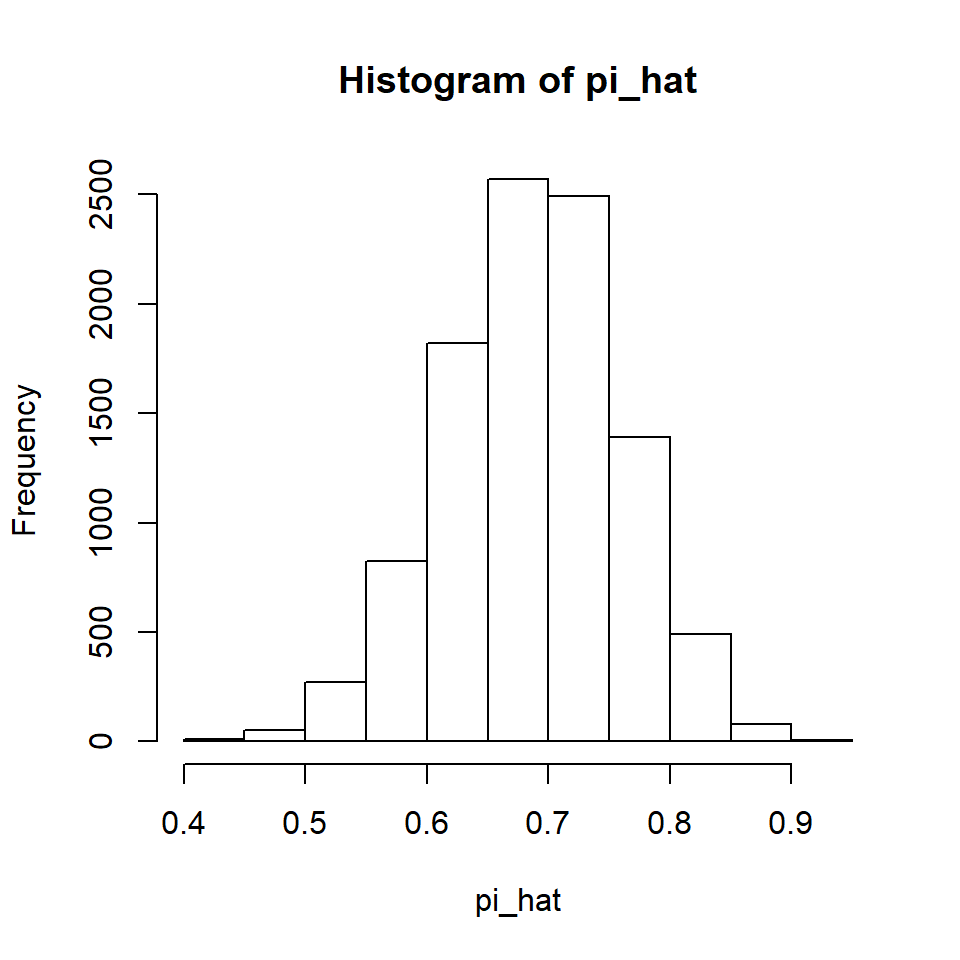
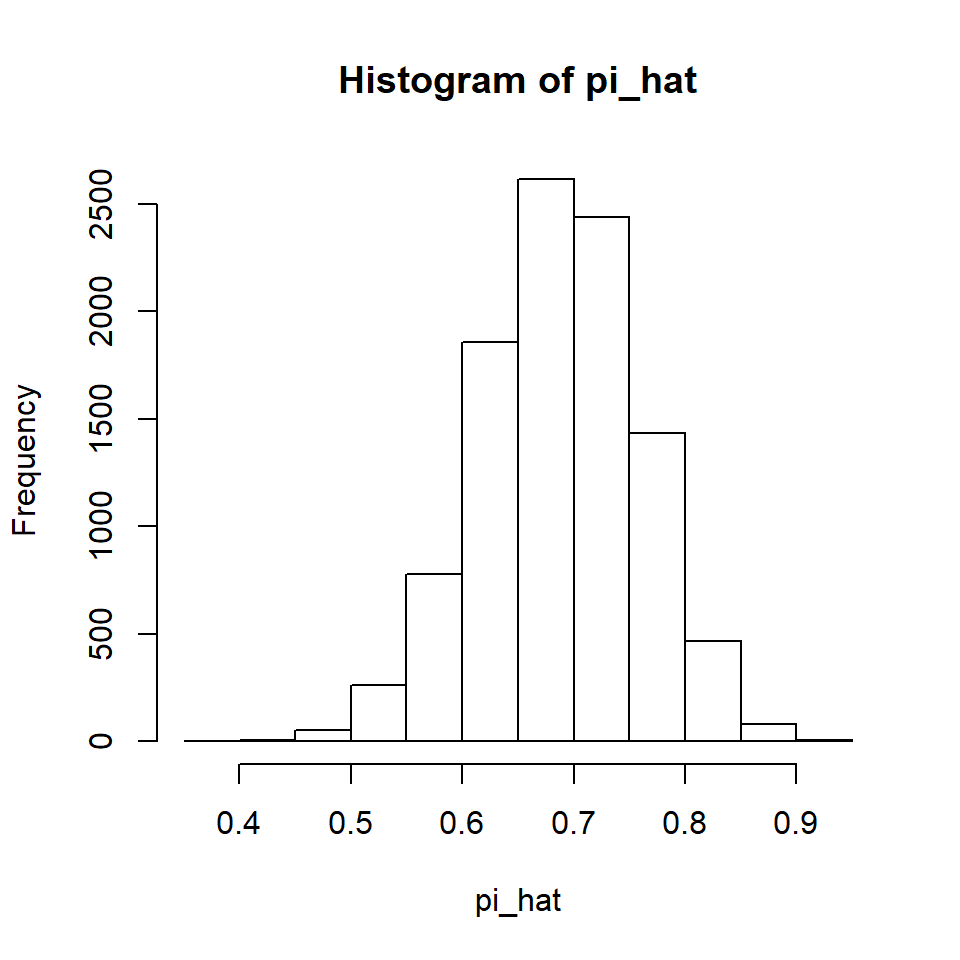
Build site for version 9011

diff --git a/docs/articles/ReplaceScores.html b/docs/articles/ReplaceScores.html
@@ -30,7 +30,7 @@
       </button>
       <span class="navbar-brand">
         <a class="navbar-link" href="../index.html">nplearn</a>
-        <span class="version label label-danger" data-toggle="tooltip" data-placement="bottom" title="Unreleased version">0.0.0.9010</span>
+        <span class="version label label-danger" data-toggle="tooltip" data-placement="bottom" title="Unreleased version">0.0.0.9011</span>
       </span>
     </div>
 
@@ -345,7 +345,7 @@
 <span id="cb13-17"><a href="#cb13-17"></a><span class="co">#&gt;  Wilcoxon signed rank test</span></span>
 <span id="cb13-18"><a href="#cb13-18"></a><span class="co">#&gt; </span></span>
 <span id="cb13-19"><a href="#cb13-19"></a><span class="co">#&gt; data:  large.A and large.B</span></span>
-<span id="cb13-20"><a href="#cb13-20"></a><span class="co">#&gt; V = 806, p-value = 0.2136</span></span>
+<span id="cb13-20"><a href="#cb13-20"></a><span class="co">#&gt; V = 690, p-value = 0.04931</span></span>
 <span id="cb13-21"><a href="#cb13-21"></a><span class="co">#&gt; alternative hypothesis: true location shift is less than 0</span></span></code></pre></div>
 <p>Wow! It did it, and fast! Let’s see how this compares to if we had just let the function do the large-sample approximation.</p>
 <div class="sourceCode" id="cb14"><pre class="sourceCode r"><code class="sourceCode r"><span id="cb14-1"><a href="#cb14-1"></a><span class="kw"><a href="https://www.rdocumentation.org/packages/stats/topics/wilcox.test">wilcox.test</a></span>(large.A, large.B, <span class="dt">paired =</span> <span class="ot">TRUE</span>, <span class="dt">alternative =</span> <span class="st">"less"</span>)</span>
@@ -353,7 +353,7 @@
 <span id="cb14-3"><a href="#cb14-3"></a><span class="co">#&gt;  Wilcoxon signed rank test with continuity correction</span></span>
 <span id="cb14-4"><a href="#cb14-4"></a><span class="co">#&gt; </span></span>
 <span id="cb14-5"><a href="#cb14-5"></a><span class="co">#&gt; data:  large.A and large.B</span></span>
-<span id="cb14-6"><a href="#cb14-6"></a><span class="co">#&gt; V = 806, p-value = 0.2122</span></span>
+<span id="cb14-6"><a href="#cb14-6"></a><span class="co">#&gt; V = 690, p-value = 0.0492</span></span>
 <span id="cb14-7"><a href="#cb14-7"></a><span class="co">#&gt; alternative hypothesis: true location shift is less than 0</span></span></code></pre></div>
 <p>This is quite good, which is why the function switches to the large-sample approximation at 50. We know that the Fisher-Pitman permutation test with original scores would take way too long for us to do in our lifetime. (Maybe grandchildren could get our results off the printer and help establish our lebacy!) Yet we also know that the <em>t</em> test is a large-sample approxiamation for the Fisher-Pitman permutation test, so let’s see how those results compare.</p>
 <div class="sourceCode" id="cb15"><pre class="sourceCode r"><code class="sourceCode r"><span id="cb15-1"><a href="#cb15-1"></a><span class="kw"><a href="https://www.rdocumentation.org/packages/stats/topics/t.test">t.test</a></span>(large.A, large.B, <span class="dt">paired =</span> <span class="ot">TRUE</span>, <span class="dt">alternative =</span> <span class="st">"less"</span>)</span>
@@ -361,13 +361,13 @@
 <span id="cb15-3"><a href="#cb15-3"></a><span class="co">#&gt;  Paired t-test</span></span>
 <span id="cb15-4"><a href="#cb15-4"></a><span class="co">#&gt; </span></span>
 <span id="cb15-5"><a href="#cb15-5"></a><span class="co">#&gt; data:  large.A and large.B</span></span>
-<span id="cb15-6"><a href="#cb15-6"></a><span class="co">#&gt; t = -0.63366, df = 59, p-value = 0.2644</span></span>
+<span id="cb15-6"><a href="#cb15-6"></a><span class="co">#&gt; t = -1.6311, df = 59, p-value = 0.0541</span></span>
 <span id="cb15-7"><a href="#cb15-7"></a><span class="co">#&gt; alternative hypothesis: true difference in means is less than 0</span></span>
 <span id="cb15-8"><a href="#cb15-8"></a><span class="co">#&gt; 95 percent confidence interval:</span></span>
-<span id="cb15-9"><a href="#cb15-9"></a><span class="co">#&gt;      -Inf 1.880778</span></span>
+<span id="cb15-9"><a href="#cb15-9"></a><span class="co">#&gt;        -Inf 0.06446532</span></span>
 <span id="cb15-10"><a href="#cb15-10"></a><span class="co">#&gt; sample estimates:</span></span>
 <span id="cb15-11"><a href="#cb15-11"></a><span class="co">#&gt; mean of the differences </span></span>
-<span id="cb15-12"><a href="#cb15-12"></a><span class="co">#&gt;               -1.148761</span></span></code></pre></div>
+<span id="cb15-12"><a href="#cb15-12"></a><span class="co">#&gt;               -2.627069</span></span></code></pre></div>
 <p>Remember that we simulated this study using random numbers, so your results will be different than mine, and my results will be different every time I go through this vignette. What we do know is that <em>most of the time</em> we should obtain a smaller <em>p</em> value with the <em>t</em> test. Why? Because we have exactly met the conditions for valid inference with the <em>t</em> test by simulating our data using a normal distribution. I will venture, however, that most of the time when you try this with normally distributed data that your results will not differ too drastically from what you are obtaining with the Wilcoxon test. This is surprising given that the <em>t</em> test is valid, and most powerful, when the sample comes from a normal distribution. We will discuss this further when we compare the power of competing methods.</p>
 </div>
 <div id="conditions-for-valid-inference" class="section level3">
@@ -493,11 +493,11 @@
 <span id="cb24-11"><a href="#cb24-11"></a><span class="co"># Let's see if we have any ties.</span></span>
 <span id="cb24-12"><a href="#cb24-12"></a></span>
 <span id="cb24-13"><a href="#cb24-13"></a><span class="kw"><a href="https://www.rdocumentation.org/packages/base/topics/rank">rank</a></span>(<span class="kw"><a href="https://www.rdocumentation.org/packages/base/topics/MathFun">abs</a></span>(large.B <span class="op">-</span><span class="st"> </span>large.A))</span>
-<span id="cb24-14"><a href="#cb24-14"></a><span class="co">#&gt;  [1] 35.5 38.0  3.5 55.5 30.0 53.0  3.5 49.5 43.0 43.0 49.5 11.5  8.5 38.0</span></span>
-<span id="cb24-15"><a href="#cb24-15"></a><span class="co">#&gt; [15] 54.0 11.5 28.0 31.0 40.5 45.5 45.5 20.0  8.5 51.5 24.5 14.0 40.5 22.0</span></span>
-<span id="cb24-16"><a href="#cb24-16"></a><span class="co">#&gt; [29] 47.5 51.5  8.5 33.0 17.0 20.0 47.5 55.5 28.0 14.0 17.0  3.5 28.0 59.0</span></span>
-<span id="cb24-17"><a href="#cb24-17"></a><span class="co">#&gt; [43] 24.5  3.5 14.0 35.5 57.0  8.5 59.0 38.0 24.5 17.0  3.5 33.0 59.0 43.0</span></span>
-<span id="cb24-18"><a href="#cb24-18"></a><span class="co">#&gt; [57] 20.0 33.0 24.5  3.5</span></span></code></pre></div>
+<span id="cb24-14"><a href="#cb24-14"></a><span class="co">#&gt;  [1] 56.0  2.5 40.0 40.0 53.0 30.0 37.0 15.0 51.5 26.0 26.0 43.5 54.0 30.0</span></span>
+<span id="cb24-15"><a href="#cb24-15"></a><span class="co">#&gt; [15]  8.0 19.5 40.0 40.0 34.0 49.0 43.5  5.5 11.5  4.0 55.0 11.5  8.0 46.0</span></span>
+<span id="cb24-16"><a href="#cb24-16"></a><span class="co">#&gt; [29] 11.5 23.0 15.0 26.0 60.0  1.0 34.0 19.5 26.0 11.5  8.0 19.5 46.0 58.0</span></span>
+<span id="cb24-17"><a href="#cb24-17"></a><span class="co">#&gt; [43] 40.0 30.0 34.0 26.0 50.0 46.0 48.0 19.5 51.5  2.5 15.0 34.0 34.0 19.5</span></span>
+<span id="cb24-18"><a href="#cb24-18"></a><span class="co">#&gt; [57]  5.5 19.5 59.0 57.0</span></span></code></pre></div>
 <p>Now let’s see if the function works for us. Remember we did a one-sided test for this example.</p>
 <div class="sourceCode" id="cb25"><pre class="sourceCode r"><code class="sourceCode r"><span id="cb25-1"><a href="#cb25-1"></a><span class="kw">wilcoxsign_test</span>(large.B <span class="op">~</span><span class="st"> </span>large.A,</span>
 <span id="cb25-2"><a href="#cb25-2"></a>                <span class="dt">distribution =</span> <span class="st">"exact"</span>,</span>
@@ -507,7 +507,7 @@
 <span id="cb25-6"><a href="#cb25-6"></a><span class="co">#&gt; </span></span>
 <span id="cb25-7"><a href="#cb25-7"></a><span class="co">#&gt; data:  y by x (pos, neg) </span></span>
 <span id="cb25-8"><a href="#cb25-8"></a><span class="co">#&gt;   stratified by block</span></span>
-<span id="cb25-9"><a href="#cb25-9"></a><span class="co">#&gt; Z = 0.91681, p-value = 0.1814</span></span>
+<span id="cb25-9"><a href="#cb25-9"></a><span class="co">#&gt; Z = 2.0474, p-value = 0.02009</span></span>
 <span id="cb25-10"><a href="#cb25-10"></a><span class="co">#&gt; alternative hypothesis: true mu is greater than 0</span></span></code></pre></div>
 <p>Let’s see how this <em>p</em> value compares to that of the <em>t</em> test.</p>
 <div class="sourceCode" id="cb26"><pre class="sourceCode r"><code class="sourceCode r"><span id="cb26-1"><a href="#cb26-1"></a><span class="kw"><a href="https://www.rdocumentation.org/packages/stats/topics/t.test">t.test</a></span>(large.B <span class="op">-</span><span class="st"> </span>large.A, <span class="dt">alternative =</span> <span class="st">"greater"</span>)</span>
@@ -515,13 +515,13 @@
 <span id="cb26-3"><a href="#cb26-3"></a><span class="co">#&gt;  One Sample t-test</span></span>
 <span id="cb26-4"><a href="#cb26-4"></a><span class="co">#&gt; </span></span>
 <span id="cb26-5"><a href="#cb26-5"></a><span class="co">#&gt; data:  large.B - large.A</span></span>
-<span id="cb26-6"><a href="#cb26-6"></a><span class="co">#&gt; t = 0.8971, df = 59, p-value = 0.1867</span></span>
+<span id="cb26-6"><a href="#cb26-6"></a><span class="co">#&gt; t = 1.7963, df = 59, p-value = 0.03878</span></span>
 <span id="cb26-7"><a href="#cb26-7"></a><span class="co">#&gt; alternative hypothesis: true mean is greater than 0</span></span>
 <span id="cb26-8"><a href="#cb26-8"></a><span class="co">#&gt; 95 percent confidence interval:</span></span>
-<span id="cb26-9"><a href="#cb26-9"></a><span class="co">#&gt;  -1.610509       Inf</span></span>
+<span id="cb26-9"><a href="#cb26-9"></a><span class="co">#&gt;  0.2335718       Inf</span></span>
 <span id="cb26-10"><a href="#cb26-10"></a><span class="co">#&gt; sample estimates:</span></span>
 <span id="cb26-11"><a href="#cb26-11"></a><span class="co">#&gt; mean of x </span></span>
-<span id="cb26-12"><a href="#cb26-12"></a><span class="co">#&gt;  1.866667</span></span></code></pre></div>
+<span id="cb26-12"><a href="#cb26-12"></a><span class="co">#&gt;      3.35</span></span></code></pre></div>
 <p>Pretty close!</p>
 </div>
 <div id="a-confidence-interval-for-the-median" class="section level3">
@@ -721,18 +721,18 @@
 <span id="cb41-4"><a href="#cb41-4"></a></span>
 <span id="cb41-5"><a href="#cb41-5"></a>many.n.scores &lt;-<span class="st"> </span><span class="kw"><a href="../reference/norm_scores.html">norm_scores</a></span>(diff.scores)</span>
 <span id="cb41-6"><a href="#cb41-6"></a>many.n.scores</span>
-<span id="cb41-7"><a href="#cb41-7"></a><span class="co">#&gt;  [1]  0.02054758  0.04110384  0.06167748  0.08227727 -0.10291203</span></span>
-<span id="cb41-8"><a href="#cb41-8"></a><span class="co">#&gt;  [6]  0.12359072  0.14432239  0.16511628  0.18598182 -0.20692866</span></span>
-<span id="cb41-9"><a href="#cb41-9"></a><span class="co">#&gt; [11]  0.22796670  0.24910613  0.27035748 -0.29173166 -0.31323996</span></span>
-<span id="cb41-10"><a href="#cb41-10"></a><span class="co">#&gt; [16] -0.33489417  0.35670658 -0.37869006  0.40085811 -0.42322495</span></span>
-<span id="cb41-11"><a href="#cb41-11"></a><span class="co">#&gt; [21] -0.44580556  0.46861583 -0.49167259  0.51499376 -0.53859848</span></span>
-<span id="cb41-12"><a href="#cb41-12"></a><span class="co">#&gt; [26]  0.56250721  0.58674192 -0.61132626  0.63628579  0.66164818</span></span>
-<span id="cb41-13"><a href="#cb41-13"></a><span class="co">#&gt; [31]  0.68744352 -0.71370464 -0.74046747 -0.76777150  0.79566030</span></span>
-<span id="cb41-14"><a href="#cb41-14"></a><span class="co">#&gt; [36] -0.82418215  0.85339080  0.88334633  0.91411630  0.94577709</span></span>
-<span id="cb41-15"><a href="#cb41-15"></a><span class="co">#&gt; [41] -0.97841553  1.01213103  1.04703818 -1.08327016  1.12098304</span></span>
-<span id="cb41-16"><a href="#cb41-16"></a><span class="co">#&gt; [46]  1.16036154 -1.20162669  1.24504624  1.29094915  1.33974621</span></span>
-<span id="cb41-17"><a href="#cb41-17"></a><span class="co">#&gt; [51] -1.39196028  1.44827204 -1.50959209 -1.57718007 -1.65285363</span></span>
-<span id="cb41-18"><a href="#cb41-18"></a><span class="co">#&gt; [56] -1.73938416  1.84132620  1.96702501  2.13468333  2.40003638</span></span></code></pre></div>
+<span id="cb41-7"><a href="#cb41-7"></a><span class="co">#&gt;  [1] -0.02054758 -0.04110384  0.06167748 -0.08227727  0.10291203</span></span>
+<span id="cb41-8"><a href="#cb41-8"></a><span class="co">#&gt;  [6]  0.12359072 -0.14432239  0.16511628  0.18598182 -0.20692866</span></span>
+<span id="cb41-9"><a href="#cb41-9"></a><span class="co">#&gt; [11] -0.22796670  0.24910613  0.27035748  0.29173166  0.31323996</span></span>
+<span id="cb41-10"><a href="#cb41-10"></a><span class="co">#&gt; [16]  0.33489417  0.35670658  0.37869006 -0.40085811  0.42322495</span></span>
+<span id="cb41-11"><a href="#cb41-11"></a><span class="co">#&gt; [21]  0.44580556 -0.46861583  0.49167259 -0.51499376 -0.53859848</span></span>
+<span id="cb41-12"><a href="#cb41-12"></a><span class="co">#&gt; [26]  0.56250721  0.58674192  0.61132626  0.63628579 -0.66164818</span></span>
+<span id="cb41-13"><a href="#cb41-13"></a><span class="co">#&gt; [31] -0.68744352 -0.71370464 -0.74046747 -0.76777150  0.79566030</span></span>
+<span id="cb41-14"><a href="#cb41-14"></a><span class="co">#&gt; [36]  0.82418215  0.85339080  0.88334633  0.91411630 -0.94577709</span></span>
+<span id="cb41-15"><a href="#cb41-15"></a><span class="co">#&gt; [41]  0.97841553 -1.01213103 -1.04703818  1.08327016  1.12098304</span></span>
+<span id="cb41-16"><a href="#cb41-16"></a><span class="co">#&gt; [46] -1.16036154  1.20162669  1.24504624  1.29094915  1.33974621</span></span>
+<span id="cb41-17"><a href="#cb41-17"></a><span class="co">#&gt; [51]  1.39196028 -1.44827204  1.50959209  1.57718007 -1.65285363</span></span>
+<span id="cb41-18"><a href="#cb41-18"></a><span class="co">#&gt; [56]  1.73938416  1.84132620  1.96702501  2.13468333  2.40003638</span></span></code></pre></div>
 <p>Now we are in the same predicament that we were when we had original scores and wanted to do the Fisher-Pitman test with a large sample. We need to turn to a large-sample approximation.</p>
 <div class="sourceCode" id="cb42"><pre class="sourceCode r"><code class="sourceCode r"><span id="cb42-1"><a href="#cb42-1"></a><span class="co"># Here is our observed value of the test statistic.</span></span>
 <span id="cb42-2"><a href="#cb42-2"></a></span>
@@ -753,7 +753,7 @@
 <span id="cb42-17"><a href="#cb42-17"></a><span class="co"># This is the p value for a one-sided test.</span></span>
 <span id="cb42-18"><a href="#cb42-18"></a></span>
 <span id="cb42-19"><a href="#cb42-19"></a><span class="kw"><a href="https://www.rdocumentation.org/packages/stats/topics/Normal">pnorm</a></span>(z, <span class="dt">lower.tail =</span> <span class="ot">FALSE</span>)</span>
-<span id="cb42-20"><a href="#cb42-20"></a><span class="co">#&gt; [1] 8.497556e-07</span></span></code></pre></div>
+<span id="cb42-20"><a href="#cb42-20"></a><span class="co">#&gt; [1] 1.717379e-07</span></span></code></pre></div>
 <p>Note that the “jumps” are all different sizes, so we can’t incorporate a correction for continuity, though we did take into account the discrete nature of the data.</p>
 <p>Under the null hypothesis, the normal scores are normally distributed. This means that we could use the t.test as a large-sample approximation. The difference is that we are assuming continuous, rather than discrete, data.</p>
 <div class="sourceCode" id="cb43"><pre class="sourceCode r"><code class="sourceCode r"><span id="cb43-1"><a href="#cb43-1"></a><span class="kw"><a href="https://www.rdocumentation.org/packages/stats/topics/t.test">t.test</a></span>(diff.scores, <span class="dt">alternative =</span> <span class="st">"greater"</span>)</span>
@@ -761,26 +761,26 @@
 <span id="cb43-3"><a href="#cb43-3"></a><span class="co">#&gt;  One Sample t-test</span></span>
 <span id="cb43-4"><a href="#cb43-4"></a><span class="co">#&gt; </span></span>
 <span id="cb43-5"><a href="#cb43-5"></a><span class="co">#&gt; data:  diff.scores</span></span>
-<span id="cb43-6"><a href="#cb43-6"></a><span class="co">#&gt; t = 1.3648, df = 59, p-value = 0.08875</span></span>
+<span id="cb43-6"><a href="#cb43-6"></a><span class="co">#&gt; t = 2.8357, df = 59, p-value = 0.003127</span></span>
 <span id="cb43-7"><a href="#cb43-7"></a><span class="co">#&gt; alternative hypothesis: true mean is greater than 0</span></span>
 <span id="cb43-8"><a href="#cb43-8"></a><span class="co">#&gt; 95 percent confidence interval:</span></span>
-<span id="cb43-9"><a href="#cb43-9"></a><span class="co">#&gt;  -0.275463       Inf</span></span>
+<span id="cb43-9"><a href="#cb43-9"></a><span class="co">#&gt;  1.324484      Inf</span></span>
 <span id="cb43-10"><a href="#cb43-10"></a><span class="co">#&gt; sample estimates:</span></span>
 <span id="cb43-11"><a href="#cb43-11"></a><span class="co">#&gt; mean of x </span></span>
-<span id="cb43-12"><a href="#cb43-12"></a><span class="co">#&gt;  1.227375</span></span></code></pre></div>
+<span id="cb43-12"><a href="#cb43-12"></a><span class="co">#&gt;  3.224961</span></span></code></pre></div>
 <p>What if we had done this with normal scores? Given that we have a normal distribution, we should obtain approximately the same result.</p>
 <div class="sourceCode" id="cb44"><pre class="sourceCode r"><code class="sourceCode r"><span id="cb44-1"><a href="#cb44-1"></a><span class="kw"><a href="https://www.rdocumentation.org/packages/stats/topics/t.test">t.test</a></span>(many.n.scores, <span class="dt">alternative =</span> <span class="st">"greater"</span>)</span>
 <span id="cb44-2"><a href="#cb44-2"></a><span class="co">#&gt; </span></span>
 <span id="cb44-3"><a href="#cb44-3"></a><span class="co">#&gt;  One Sample t-test</span></span>
 <span id="cb44-4"><a href="#cb44-4"></a><span class="co">#&gt; </span></span>
 <span id="cb44-5"><a href="#cb44-5"></a><span class="co">#&gt; data:  many.n.scores</span></span>
-<span id="cb44-6"><a href="#cb44-6"></a><span class="co">#&gt; t = 1.4127, df = 59, p-value = 0.0815</span></span>
+<span id="cb44-6"><a href="#cb44-6"></a><span class="co">#&gt; t = 2.8423, df = 59, p-value = 0.003071</span></span>
 <span id="cb44-7"><a href="#cb44-7"></a><span class="co">#&gt; alternative hypothesis: true mean is greater than 0</span></span>
 <span id="cb44-8"><a href="#cb44-8"></a><span class="co">#&gt; 95 percent confidence interval:</span></span>
-<span id="cb44-9"><a href="#cb44-9"></a><span class="co">#&gt;  -0.03209992         Inf</span></span>
+<span id="cb44-9"><a href="#cb44-9"></a><span class="co">#&gt;  0.1387274       Inf</span></span>
 <span id="cb44-10"><a href="#cb44-10"></a><span class="co">#&gt; sample estimates:</span></span>
 <span id="cb44-11"><a href="#cb44-11"></a><span class="co">#&gt; mean of x </span></span>
-<span id="cb44-12"><a href="#cb44-12"></a><span class="co">#&gt; 0.1754718</span></span></code></pre></div>
+<span id="cb44-12"><a href="#cb44-12"></a><span class="co">#&gt; 0.3366635</span></span></code></pre></div>
 <p>I am pleased with these last two results, but using the formula for a large-sample approximation with Z scores gives a result that startles me! I obtained this from a reputable textbook, but now I’m questioning whether it is right. I am going to investigate. In the meantime, I suggest that you use the <em>t</em> test for the large-sample approximation.</p>
 <p>What if the difference scores had <em>not</em> come from a normal distribution? In the next example, I’m going to draw them from a uniform distribution.</p>
 <div class="sourceCode" id="cb45"><pre class="sourceCode r"><code class="sourceCode r"><span id="cb45-1"><a href="#cb45-1"></a><span class="co"># Obtain 60 uniformly distributed difference scores with a raw effect size of 2 and a standardized effect size of 0.25.</span></span>
@@ -797,26 +797,26 @@
 <span id="cb46-3"><a href="#cb46-3"></a><span class="co">#&gt;  One Sample t-test</span></span>
 <span id="cb46-4"><a href="#cb46-4"></a><span class="co">#&gt; </span></span>
 <span id="cb46-5"><a href="#cb46-5"></a><span class="co">#&gt; data:  diff.scores</span></span>
-<span id="cb46-6"><a href="#cb46-6"></a><span class="co">#&gt; t = 1.5575, df = 59, p-value = 0.1247</span></span>
+<span id="cb46-6"><a href="#cb46-6"></a><span class="co">#&gt; t = 1.6929, df = 59, p-value = 0.09576</span></span>
 <span id="cb46-7"><a href="#cb46-7"></a><span class="co">#&gt; alternative hypothesis: true mean is not equal to 0</span></span>
 <span id="cb46-8"><a href="#cb46-8"></a><span class="co">#&gt; 95 percent confidence interval:</span></span>
-<span id="cb46-9"><a href="#cb46-9"></a><span class="co">#&gt;  -0.4487894  3.6007844</span></span>
+<span id="cb46-9"><a href="#cb46-9"></a><span class="co">#&gt;  -0.314536  3.770544</span></span>
 <span id="cb46-10"><a href="#cb46-10"></a><span class="co">#&gt; sample estimates:</span></span>
 <span id="cb46-11"><a href="#cb46-11"></a><span class="co">#&gt; mean of x </span></span>
-<span id="cb46-12"><a href="#cb46-12"></a><span class="co">#&gt;  1.575998</span></span></code></pre></div>
+<span id="cb46-12"><a href="#cb46-12"></a><span class="co">#&gt;  1.728004</span></span></code></pre></div>
 <p>Let’s now use the normal scores.</p>
 <div class="sourceCode" id="cb47"><pre class="sourceCode r"><code class="sourceCode r"><span id="cb47-1"><a href="#cb47-1"></a><span class="kw"><a href="https://www.rdocumentation.org/packages/stats/topics/t.test">t.test</a></span>(many.n.scores)</span>
 <span id="cb47-2"><a href="#cb47-2"></a><span class="co">#&gt; </span></span>
 <span id="cb47-3"><a href="#cb47-3"></a><span class="co">#&gt;  One Sample t-test</span></span>
 <span id="cb47-4"><a href="#cb47-4"></a><span class="co">#&gt; </span></span>
 <span id="cb47-5"><a href="#cb47-5"></a><span class="co">#&gt; data:  many.n.scores</span></span>
-<span id="cb47-6"><a href="#cb47-6"></a><span class="co">#&gt; t = 1.785, df = 59, p-value = 0.0794</span></span>
+<span id="cb47-6"><a href="#cb47-6"></a><span class="co">#&gt; t = 1.8011, df = 59, p-value = 0.0768</span></span>
 <span id="cb47-7"><a href="#cb47-7"></a><span class="co">#&gt; alternative hypothesis: true mean is not equal to 0</span></span>
 <span id="cb47-8"><a href="#cb47-8"></a><span class="co">#&gt; 95 percent confidence interval:</span></span>
-<span id="cb47-9"><a href="#cb47-9"></a><span class="co">#&gt;  -0.02657309  0.46574518</span></span>
+<span id="cb47-9"><a href="#cb47-9"></a><span class="co">#&gt;  -0.02458251  0.46750755</span></span>
 <span id="cb47-10"><a href="#cb47-10"></a><span class="co">#&gt; sample estimates:</span></span>
 <span id="cb47-11"><a href="#cb47-11"></a><span class="co">#&gt; mean of x </span></span>
-<span id="cb47-12"><a href="#cb47-12"></a><span class="co">#&gt;  0.219586</span></span></code></pre></div>
+<span id="cb47-12"><a href="#cb47-12"></a><span class="co">#&gt; 0.2214625</span></span></code></pre></div>
 <p>Should I be concerned that these <em>p</em> values are so different? No! We know that using the <em>t</em> test with the original scores should control our Type I error rate because the distribution is symmetrical and we have a large sample size. What we discover, however, is that by using the large-sample approximation to the nonparametric normal scores test, we obtain substantially more power. Take <strong>that</strong> all you bloggers who nonchalantly say that you get less power with nonparametric statistics! We’ll explore this issue some more in our next section on relative efficiency.</p>
 </div>
   </div>

diff --git a/docs/articles/lsprop.html b/docs/articles/lsprop.html
@@ -30,7 +30,7 @@
       </button>
       <span class="navbar-brand">
         <a class="navbar-link" href="../index.html">nplearn</a>
-        <span class="version label label-danger" data-toggle="tooltip" data-placement="bottom" title="Unreleased version">0.0.0.9010</span>
+        <span class="version label label-danger" data-toggle="tooltip" data-placement="bottom" title="Unreleased version">0.0.0.9011</span>
       </span>
     </div>
 
@@ -118,8 +118,8 @@
 <span id="cb2-2"><a href="#cb2-2"></a>pi &lt;-<span class="st"> </span><span class="fl">0.7</span></span>
 <span id="cb2-3"><a href="#cb2-3"></a></span>
 <span id="cb2-4"><a href="#cb2-4"></a><span class="kw"><a href="https://www.rdocumentation.org/packages/Rlab/topics/Bernoulli">rbern</a></span>(n, pi)</span>
-<span id="cb2-5"><a href="#cb2-5"></a><span class="co">#&gt;  [1] 1 1 1 0 1 0 1 1 1 0 0 0 1 1 0 1 0 1 1 0 1 1 0 1 1 1 0 1 1 1 0 0 1 1 1</span></span>
-<span id="cb2-6"><a href="#cb2-6"></a><span class="co">#&gt; [36] 1 1 0 1 1</span></span></code></pre></div>
+<span id="cb2-5"><a href="#cb2-5"></a><span class="co">#&gt;  [1] 1 1 1 0 1 1 1 0 1 1 1 0 1 0 1 0 1 0 1 0 1 1 1 1 1 1 1 1 1 1 1 0 1 1 1</span></span>
+<span id="cb2-6"><a href="#cb2-6"></a><span class="co">#&gt; [36] 1 1 1 0 1</span></span></code></pre></div>
 <p>Now we will repeat this simulation 10,000 times. Each time, we will calculate the proportion success in the sample and save it.</p>
 <div class="sourceCode" id="cb3"><pre class="sourceCode r"><code class="sourceCode r"><span id="cb3-1"><a href="#cb3-1"></a>reps &lt;-<span class="st"> </span><span class="dv">10000</span></span>
 <span id="cb3-2"><a href="#cb3-2"></a></span>
@@ -129,7 +129,7 @@
 <p><img src="lsprop_files/figure-html/unnamed-chunk-4-1.png" width="480"></p>
 <p>We can see the CLT at work. Further, note that if we calculate the mean of all 10,000 values of the sample proportions, it is quite close to the population proportion of 0.7.</p>
 <div class="sourceCode" id="cb5"><pre class="sourceCode r"><code class="sourceCode r"><span id="cb5-1"><a href="#cb5-1"></a><span class="kw"><a href="https://www.rdocumentation.org/packages/base/topics/mean">mean</a></span>(pi_hat)</span>
-<span id="cb5-2"><a href="#cb5-2"></a><span class="co">#&gt; [1] 0.7001525</span></span></code></pre></div>
+<span id="cb5-2"><a href="#cb5-2"></a><span class="co">#&gt; [1] 0.7005925</span></span></code></pre></div>
 <p>When the mean of a statistic’s sampling distribution is the population value of the parameter the statistic is estimating, we refer to the statistic as <em>unbiased</em>. This is a desirable property because it tells us that the average of many wrongs is a right!</p>
 <p>If we increase the sample size, we can see the Law of Large Numbers at work. Let’s try increasing it from 40 to 200.</p>
 <div class="sourceCode" id="cb6"><pre class="sourceCode r"><code class="sourceCode r"><span id="cb6-1"><a href="#cb6-1"></a>n &lt;-<span class="st"> </span><span class="dv">200</span></span>

diff --git a/docs/articles/binomdist.html b/docs/articles/binomdist.html
@@ -30,7 +30,7 @@
       </button>
       <span class="navbar-brand">
         <a class="navbar-link" href="../index.html">nplearn</a>
-        <span class="version label label-danger" data-toggle="tooltip" data-placement="bottom" title="Unreleased version">0.0.0.9010</span>
+        <span class="version label label-danger" data-toggle="tooltip" data-placement="bottom" title="Unreleased version">0.0.0.9011</span>
       </span>
     </div>
 
@@ -285,7 +285,7 @@
 <p>The important trick to remember here is that if we want an upper tail that includes a specified value (in this case, the value of eight), we need to subtract one from this value to make sure it is included in the upper region of the distribution.</p>
 <p>Finally, suppose we wanted to do a simulation using the binomial distribution. Here are 20 random draws from a distribution with <span class="math inline">\(\pi\)</span> = 0.8 when the sample size is 15.</p>
 <div class="sourceCode" id="cb37"><pre class="sourceCode r"><code class="sourceCode r"><span id="cb37-1"><a href="#cb37-1"></a><span class="kw"><a href="https://www.rdocumentation.org/packages/stats/topics/Binomial">rbinom</a></span>(<span class="dv">20</span>, <span class="dv">15</span>, <span class="fl">0.8</span>)</span>
-<span id="cb37-2"><a href="#cb37-2"></a><span class="co">#&gt;  [1] 11 12 14 11 10 13 12 12 12 10 11 11 14 13 10 13 12 12 10 10</span></span></code></pre></div>
+<span id="cb37-2"><a href="#cb37-2"></a><span class="co">#&gt;  [1] 15 11 12 14 14 11 12 11 11 12 12 11  8 11 11 12  9 10 12 13</span></span></code></pre></div>
 <p>Keep in mind that what each number we are randomly generating is the value of <span class="math inline">\(x\)</span>, which is the number of successes in <span class="math inline">\(n\)</span> trials. In this example there are 15 opportunities for success. The probability of success is quite high, so we are primarily seeing high numbers of successes out of the 15 trials.</p>
 <p>In this example, we were drawing from a binomial distribution with <span class="math inline">\(n\)</span> trials and a probability of success, <span class="math inline">\(\pi\)</span>. These are the parameters of the binomial distribution. Any binomial distribution can be generated if we know these two parameters. Let’s end with a picture of a binomial distribution when <span class="math inline">\(n\)</span> = 100 and <span class="math inline">\(\pi\)</span> = 0.5.</p>
 <div class="sourceCode" id="cb38"><pre class="sourceCode r"><code class="sourceCode r"><span id="cb38-1"><a href="#cb38-1"></a><span class="kw"><a href="../reference/binom_plot.html">binom_plot</a></span>(<span class="dv">100</span>, <span class="fl">0.5</span>)</span></code></pre></div>

diff --git a/docs/articles/Bernoulli-Events.html b/docs/articles/Bernoulli-Events.html
@@ -30,7 +30,7 @@
       </button>
       <span class="navbar-brand">
         <a class="navbar-link" href="../index.html">nplearn</a>
-        <span class="version label label-danger" data-toggle="tooltip" data-placement="bottom" title="Unreleased version">0.0.0.9010</span>
+        <span class="version label label-danger" data-toggle="tooltip" data-placement="bottom" title="Unreleased version">0.0.0.9011</span>
       </span>
     </div>
 
@@ -198,10 +198,10 @@
 <a href="#random-variates" class="anchor"></a>Random variates</h3>
 <p>R also has (r) functions for many distributions (e.g., rnorm and rbern). These provide us a specified number of randomly seleted values from the corresponding distribution. These are known as “random variates”. This will be very handy when we study concepts such as Monte Carlo methods.</p>
 <div class="sourceCode" id="cb15"><pre class="sourceCode r"><code class="sourceCode r"><span id="cb15-1"><a href="#cb15-1"></a><span class="kw"><a href="https://www.rdocumentation.org/packages/stats/topics/Normal">rnorm</a></span>(<span class="dv">10</span>)</span>
-<span id="cb15-2"><a href="#cb15-2"></a><span class="co">#&gt;  [1]  1.1597007  1.6418804  0.3796991 -0.7556012 -1.4449237  0.5412597</span></span>
-<span id="cb15-3"><a href="#cb15-3"></a><span class="co">#&gt;  [7] -1.0124113 -0.4135646 -0.7751271 -1.4405731</span></span>
+<span id="cb15-2"><a href="#cb15-2"></a><span class="co">#&gt;  [1]  0.716757409  0.008110031  1.975344972 -1.617834506  1.543742334</span></span>
+<span id="cb15-3"><a href="#cb15-3"></a><span class="co">#&gt;  [6] -0.239209395 -1.505894099 -0.466820384 -0.450224225 -0.170214710</span></span>
 <span id="cb15-4"><a href="#cb15-4"></a><span class="kw">rbern</span>(<span class="dv">10</span>, <span class="fl">0.7</span>)</span>
-<span id="cb15-5"><a href="#cb15-5"></a><span class="co">#&gt;  [1] 1 1 1 1 0 1 0 1 0 0</span></span></code></pre></div>
+<span id="cb15-5"><a href="#cb15-5"></a><span class="co">#&gt;  [1] 0 0 1 1 0 0 1 0 1 1</span></span></code></pre></div>
 </div>
   </div>
 

diff --git a/docs/reference/binom_plot.html b/docs/reference/binom_plot.html
@@ -64,7 +64,7 @@ specified number of trials and a constant probability of success." />
       </button>
       <span class="navbar-brand">
         <a class="navbar-link" href="../index.html">nplearn</a>
-        <span class="version label label-danger" data-toggle="tooltip" data-placement="bottom" title="Unreleased version">0.0.0.9010</span>
+        <span class="version label label-danger" data-toggle="tooltip" data-placement="bottom" title="Unreleased version">0.0.0.9011</span>
       </span>
     </div>
 

diff --git a/docs/reference/power_plot.html b/docs/reference/power_plot.html
@@ -65,7 +65,7 @@ a maximum Type I error rate, and an optional power target." />
       </button>
       <span class="navbar-brand">
         <a class="navbar-link" href="../index.html">nplearn</a>
-        <span class="version label label-danger" data-toggle="tooltip" data-placement="bottom" title="Unreleased version">0.0.0.9010</span>
+        <span class="version label label-danger" data-toggle="tooltip" data-placement="bottom" title="Unreleased version">0.0.0.9011</span>
       </span>
     </div>
 

diff --git a/docs/reference/bern_plot.html b/docs/reference/bern_plot.html
@@ -64,7 +64,7 @@ specified probability of success of a Bernoulli event." />
       </button>
       <span class="navbar-brand">
         <a class="navbar-link" href="../index.html">nplearn</a>
-        <span class="version label label-danger" data-toggle="tooltip" data-placement="bottom" title="Unreleased version">0.0.0.9010</span>
+        <span class="version label label-danger" data-toggle="tooltip" data-placement="bottom" title="Unreleased version">0.0.0.9011</span>
       </span>
     </div>
 

diff --git a/docs/reference/rand_dist.html b/docs/reference/rand_dist.html
@@ -64,7 +64,7 @@ randomization test." />
       </button>
       <span class="navbar-brand">
         <a class="navbar-link" href="../index.html">nplearn</a>
-        <span class="version label label-danger" data-toggle="tooltip" data-placement="bottom" title="Unreleased version">0.0.0.9010</span>
+        <span class="version label label-danger" data-toggle="tooltip" data-placement="bottom" title="Unreleased version">0.0.0.9011</span>
       </span>
     </div>
 

diff --git a/docs/articles/OnePropExact.html b/docs/articles/OnePropExact.html
@@ -30,7 +30,7 @@
       </button>
       <span class="navbar-brand">
         <a class="navbar-link" href="../index.html">nplearn</a>
-        <span class="version label label-danger" data-toggle="tooltip" data-placement="bottom" title="Unreleased version">0.0.0.9010</span>
+        <span class="version label label-danger" data-toggle="tooltip" data-placement="bottom" title="Unreleased version">0.0.0.9011</span>
       </span>
     </div>
 

diff --git a/docs/articles/Workflow-Sample.html b/docs/articles/Workflow-Sample.html
@@ -30,7 +30,7 @@
       </button>
       <span class="navbar-brand">
         <a class="navbar-link" href="../index.html">nplearn</a>
-        <span class="version label label-danger" data-toggle="tooltip" data-placement="bottom" title="Unreleased version">0.0.0.9010</span>
+        <span class="version label label-danger" data-toggle="tooltip" data-placement="bottom" title="Unreleased version">0.0.0.9011</span>
       </span>
     </div>
 

diff --git a/docs/articles/index.html b/docs/articles/index.html
@@ -60,7 +60,7 @@
       </button>
       <span class="navbar-brand">
         <a class="navbar-link" href="../index.html">nplearn</a>
-        <span class="version label label-danger" data-toggle="tooltip" data-placement="bottom" title="Unreleased version">0.0.0.9010</span>
+        <span class="version label label-danger" data-toggle="tooltip" data-placement="bottom" title="Unreleased version">0.0.0.9011</span>
       </span>
     </div>
 

diff --git a/docs/articles/randomization.html b/docs/articles/randomization.html
@@ -30,7 +30,7 @@
       </button>
       <span class="navbar-brand">
         <a class="navbar-link" href="../index.html">nplearn</a>
-        <span class="version label label-danger" data-toggle="tooltip" data-placement="bottom" title="Unreleased version">0.0.0.9010</span>
+        <span class="version label label-danger" data-toggle="tooltip" data-placement="bottom" title="Unreleased version">0.0.0.9011</span>
       </span>
     </div>
 
